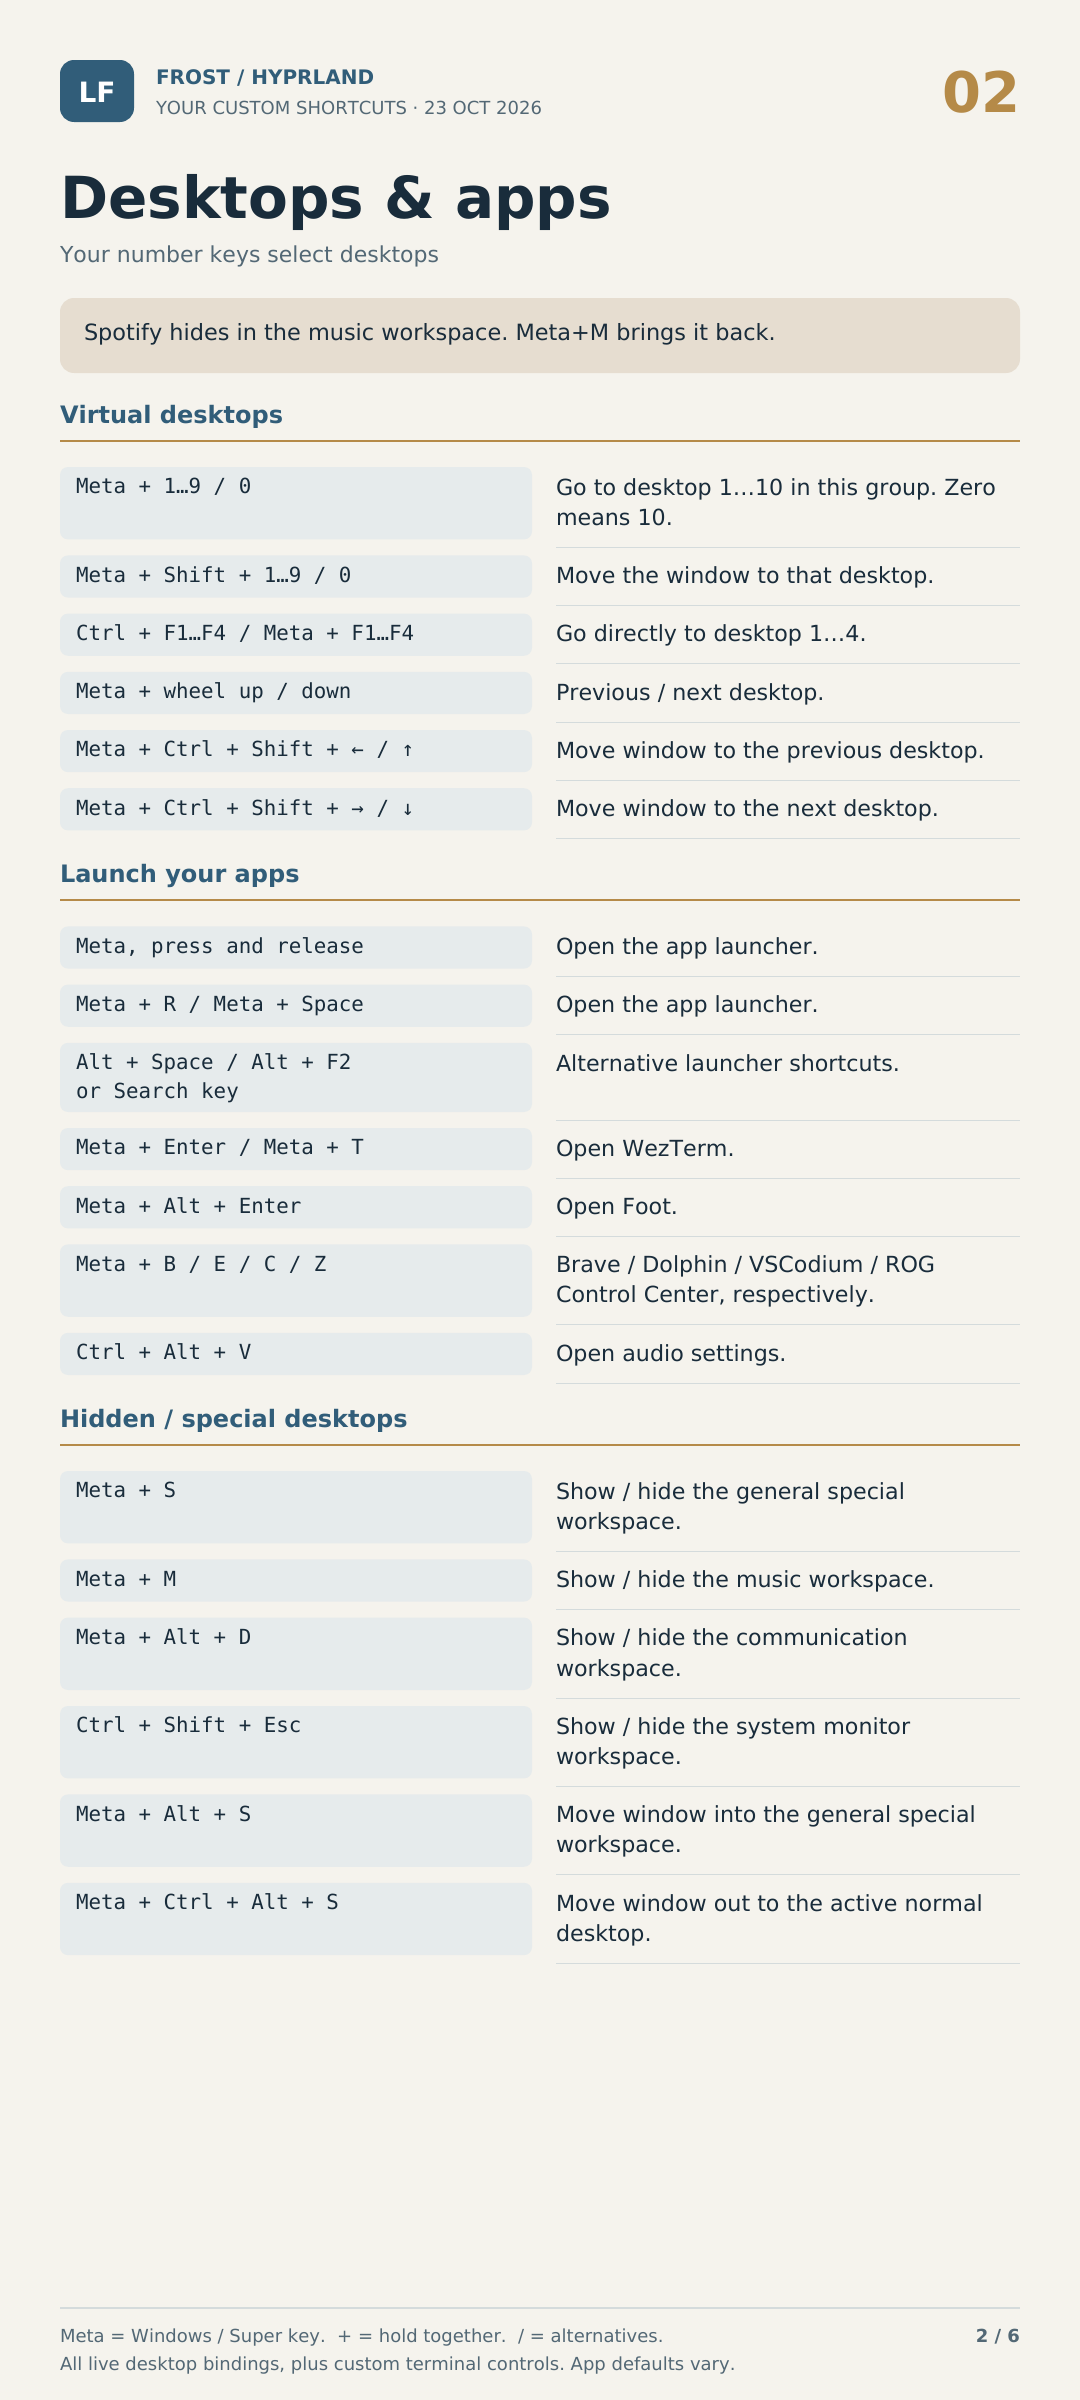
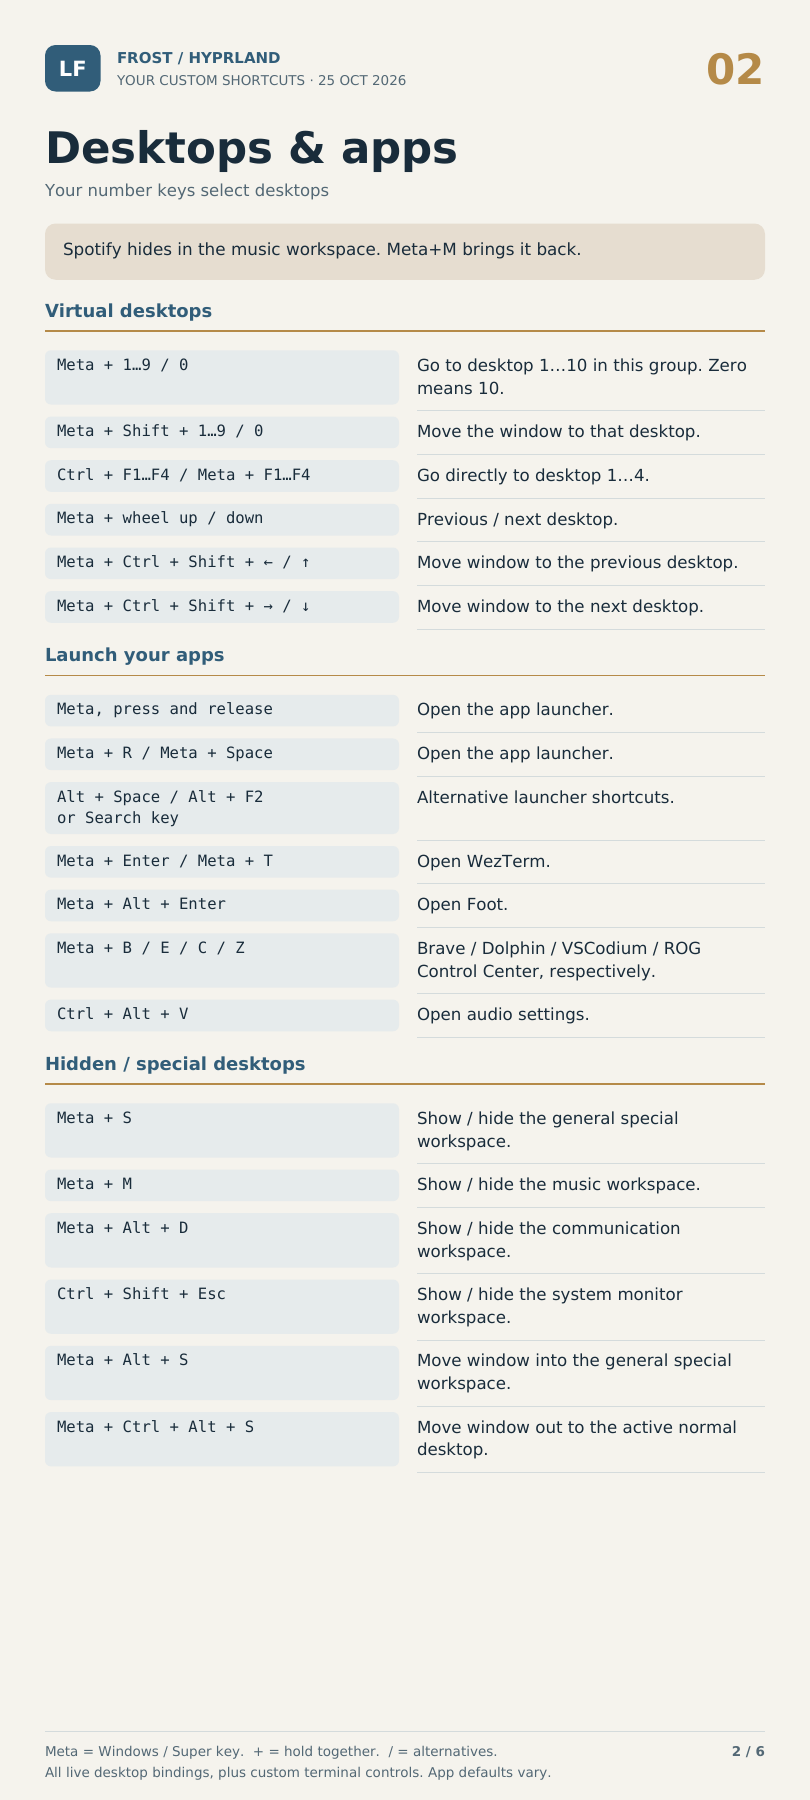
Remove direct lock and sleep shortcuts and refresh the guide

diff --git a/hyprland/reference/create-shortcuts-sheet.py b/hyprland/reference/create-shortcuts-sheet.py
@@ -14,7 +14,7 @@ DEST=ROOT/'output/shortcuts'; DEST.mkdir(parents=True,exist_ok=True)
 OUT=DEST/'Frost-Hyprland-shortcuts.pdf'
 # Each row is visible keys | action | exact live chords. Braces expand ranges.
 DATA=r'''
-@Windows|Focus, move, resize, float|Meta+L focuses right. Use Meta+Alt+L to lock.
+@Windows|Focus, move, resize, float|Meta+L focuses right. Direct lock and sleep shortcuts are disabled.
 #Focus and switch
 Meta + H / J / K / L|Focus left / down / up / right.|Meta+{H J K L}
 Meta + arrows|Focus in that direction.|Meta+{Left Down Up Right}
@@ -100,19 +100,12 @@ Keyboard-brightness keys|Raise / lower keyboard backlight.|XF86KbdBrightnessUp;X
 #Touchpad gestures
 3 fingers ← / →|Slide between virtual desktops.|
 3 fingers ↑ / ↓|Show / hide the general special workspace.|
-4 fingers ↓|Suspend, then hibernate.|
-#Sleep hardware keys
-Sleep key|Suspend.|XF86Sleep
-Hibernate key|Hibernate.|XF86Hibernate
 @Panels & advanced|Shell controls, groups, layout|Stop shell hides the panels. Use Restart shell to bring them back.
 #Panels and session
 Meta + N|Toggle the sidebar.|Meta+N
 Meta + Alt + K|Toggle shell panels.|Meta+Alt+K
 Ctrl + Alt + C|Clear notifications.|Ctrl+Alt+C
-Meta + Alt + L|Lock the screen.|Meta+Alt+L
 Ctrl + Alt + Delete|Open the session / power menu.|Ctrl+Alt+Delete
-Meta + Shift + L|Suspend, then hibernate.|Meta+Shift+L
-Meta + Ctrl + Alt + L|Start the shell if needed and request a lock.|Meta+Ctrl+Alt+L
 Meta + Ctrl + Alt + R|Restart the Caelestia shell; runs on release.|Meta+Ctrl+Alt+R
 Meta + Ctrl + Shift + R|Stop the Caelestia shell; runs on release.|Meta+Ctrl+Shift+R
 Meta + Alt + F12|Send a test notification.|Meta+Alt+F12
@@ -196,7 +189,7 @@ for number,(title,subtitle,note,sections) in enumerate(pages,1):
     c.setFillColor(colors['accent']);c.roundRect(M,H-61,37,31,7,fill=1,stroke=0)
     c.setFillColor(HexColor('#FFFFFF'));c.setFont('Bold',14);c.drawCentredString(M+18.5,H-51,'LF')
     c.setFillColor(colors['accent']);c.setFont('Bold',10);c.drawString(M+48,H-42,'FROST / HYPRLAND')
-    c.setFillColor(colors['muted']);c.setFont('Body',9);c.drawString(M+48,H-57,'YOUR CUSTOM SHORTCUTS · 23 OCT 2026')
+    c.setFillColor(colors['muted']);c.setFont('Body',9);c.drawString(M+48,H-57,'YOUR CUSTOM SHORTCUTS · 25 OCT 2026')
     c.setFillColor(colors['gold']);c.setFont('Bold',28);c.drawRightString(W-M,H-56,f'{number:02}')
     c.setFillColor(colors['ink']);c.setFont('Bold',29);c.drawString(M,H-109,title)
     c.setFillColor(colors['muted']);c.setFont('Body',11);c.drawString(M,H-131,subtitle)
@@ -221,7 +214,7 @@ for number,(title,subtitle,note,sections) in enumerate(pages,1):
     c.setFont('Bold',9);c.drawRightString(W-M,29,f'{number} / {len(pages)}');c.showPage()
 c.save();reader=PdfReader(str(OUT));assert len(reader.pages)==len(pages)
 text='\n'.join(p.extract_text() for p in reader.pages)
-for token in ['Meta + Alt + L','Meta + X','Meta + Shift + 1','Foot search','cdi / zi']:assert token in text,token
+for token in ['Meta + H / J / K / L','Meta + X','Meta + Shift + 1','Foot search','cdi / zi']:assert token in text,token
 copy=ROOT/'output/pdf'/OUT.name;copy.parent.mkdir(parents=True,exist_ok=True);shutil.copy2(OUT,copy)
 (DEST/'coverage.json').write_text(json.dumps({'live_user_bindings':len(actual),'documented_bindings':len(covered),'excluded_internal_keys':sorted(internal),'pages':len(pages),'bottom_margins_pt':bottoms},indent=2)+'\n')
 print(f'{OUT}\n{len(pages)} pages; {len(actual)} live user bindings covered. Bottoms: {bottoms}')

diff --git a/hyprland/tools/backup.py b/hyprland/tools/backup.py
@@ -72,8 +72,10 @@ for name in [
     home('.local/bin/' + name)
 
 for name in ['frost-hyprland-session.target', 'frost-usb-charge-profile.service',
-             'caelestia-spicetify.service']:
+             'caelestia-spicetify.service', 'frost-disable-sleep-keys.service']:
     home('.config/systemd/user/' + name)
+
+home('.config/systemd/user/default.target.wants/frost-disable-sleep-keys.service')
 
 for name in ['hiddify.desktop', 'net.blip.Blip.desktop',
              'io.github.slgobinath.SafeEyes.desktop',

diff --git a/hyprland/README.md b/hyprland/README.md
@@ -63,11 +63,11 @@ This is a configuration backup, not a disk image or unattended installer. Accoun
 | [1. Windows](docs/shortcuts/Frost-shortcuts-page-1.png) | Focus, switch, move, resize, float, minimize |
 | [2. Desktops and apps](docs/shortcuts/Frost-shortcuts-page-2.png) | Number keys, app launchers, hidden workspaces |
 | [3. Capture and appearance](docs/shortcuts/Frost-shortcuts-page-3.png) | Screenshots, recording, wallpapers, clipboard |
-| [4. Media and gestures](docs/shortcuts/Frost-shortcuts-page-4.png) | Volume, brightness, touchpad, sleep keys |
-| [5. Panels and advanced](docs/shortcuts/Frost-shortcuts-page-5.png) | Lock, shell restart, window/workspace groups |
+| [4. Media and gestures](docs/shortcuts/Frost-shortcuts-page-4.png) | Volume, brightness, touchpad gestures |
+| [5. Panels and advanced](docs/shortcuts/Frost-shortcuts-page-5.png) | Panels, shell restart, window/workspace groups |
 | [6. Launcher and terminal](docs/shortcuts/Frost-shortcuts-page-6.png) | Search commands, power actions, Fish, Foot |
 
-Meta means the Windows/Super key. Meta+L focuses right; Meta+Alt+L locks. Meta+1…0 selects desktops, and adding Shift moves the active window there. Meta+I toggles floating. Meta+right-drag floats first only when the window is alone on its desktop. Meta+M opens the hidden music workspace containing Spotify.
+Meta means the Windows/Super key. Meta+L focuses right. Direct lock, sleep and hibernate shortcuts are disabled, including Meta+Shift+L and the sleep gesture. A user service also prevents the system from handling hardware Sleep and Hibernate keys. Power-menu actions and idle timers remain available. Meta+1…0 selects desktops, and adding Shift moves the active window there. Meta+I toggles floating. Meta+right-drag floats first only when the window is alone on its desktop. Meta+M opens the hidden music workspace containing Spotify.
 
 ## Layout
 
@@ -113,6 +113,7 @@ After reviewing the home payload:
 ```sh
 python3 hyprland/tools/restore.py --apply
 systemctl --user daemon-reload
+systemctl --user start frost-disable-sleep-keys.service
 ```
 
 The helper saves existing changed files beneath `~/.local/state/frost-dotfiles-restore/<timestamp>/` before replacement. It does not delete unrelated files, install packages, start services, reload Hyprland, or write to system paths.
